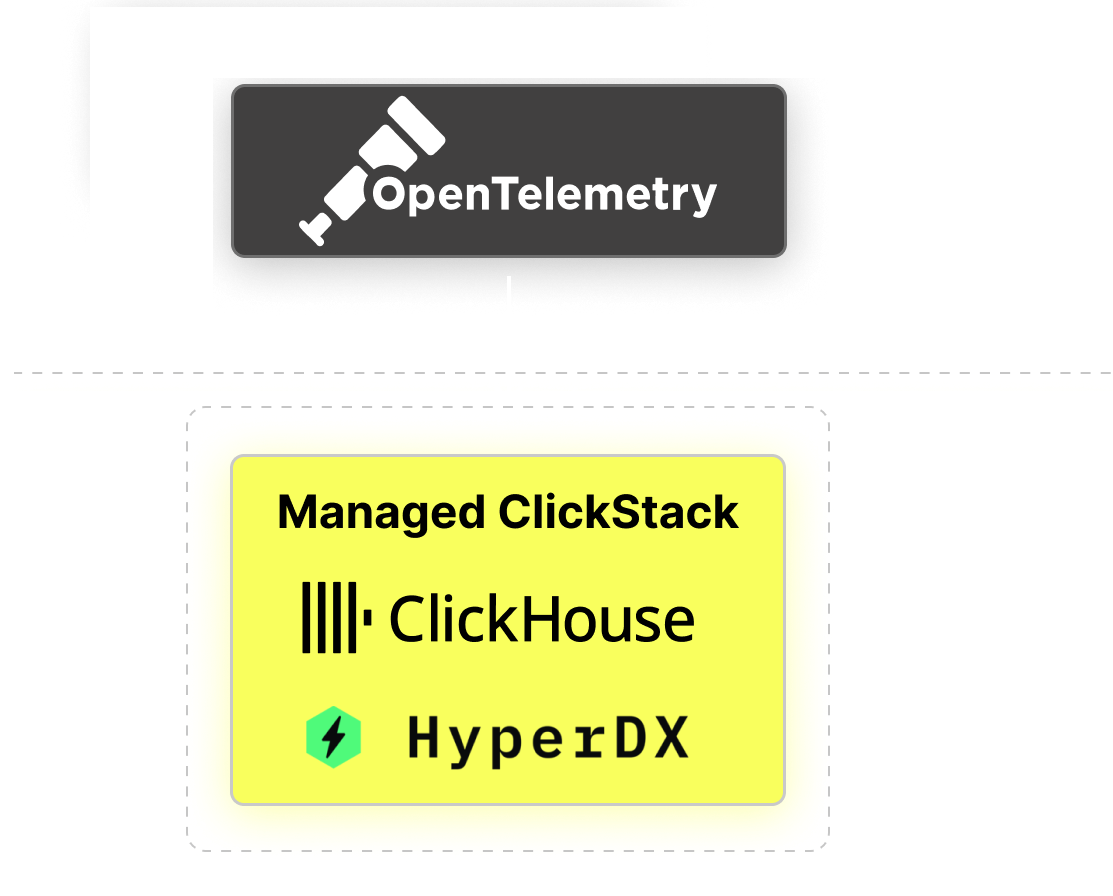
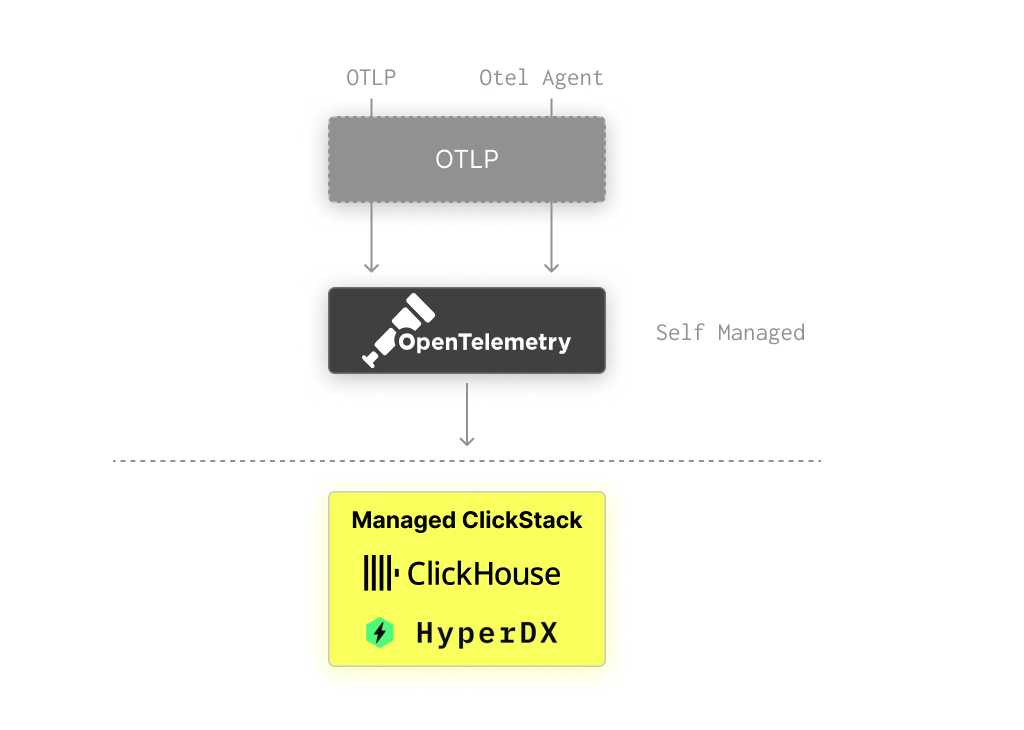
new images + detail in guides

Changed region(s): [[0.1875, 0.3918, 0.7812, 0.9342], [0.1875, 0.0904, 0.7188, 0.3014]]

diff --git a/docs/use-cases/observability/clickstack/deployment/managed.md b/docs/use-cases/observability/clickstack/deployment/managed.md
@@ -21,14 +21,19 @@ import JSONSupport from '@site/docs/use-cases/observability/clickstack/deploymen
 import SetupManagedIngestion from '@site/docs/use-cases/observability/clickstack/deployment/_snippets/_setup_managed_ingestion.md';
 import StartManagedIngestion from '@site/docs/use-cases/observability/clickstack/deployment/_snippets/_start_managed_ingestion.md';
 import NavigateClickStackUI from '@site/docs/use-cases/observability/clickstack/deployment/_snippets/_navigate_managed.md';
+import ProviderSelection from '@site/docs/use-cases/observability/clickstack/deployment/_snippets/_select_provider.md';
+import UseCaseSelector from '@site/docs/use-cases/observability/clickstack/deployment/_snippets/_select_usecase.md';
+import new_service from '@site/static/images/clickstack/getting-started/new_service.png';
+import Tabs from '@theme/Tabs';
+import TabItem from '@theme/TabItem';
 
 <BetaBadge/>
 
 ::::note[Beta feature]
 This feature is in ClickHouse Cloud beta.
-
-If you're new to ClickHouse Cloud, we recommend our [Getting Started](/use-cases/observability/clickstack/getting-started/managed) guide for Managed ClickStack.
 ::::
+
+This **guide is for existing users of ClickHouse Cloud**. If you're new to ClickHouse Cloud, we recommend our [Getting Started](/use-cases/observability/clickstack/getting-started/managed) guide for Managed ClickStack.
 
 In this deployment pattern, both ClickHouse and the ClickStack UI (HyperDX) are hosted in ClickHouse Cloud, minimizing the number of components the user needs to self-host.
 
@@ -56,9 +61,12 @@ This deployment pattern is ideal in the following scenarios:
 
 The following guide assumes you have already created a ClickHouse Cloud service. If you haven't created a service, follow the [Getting Started](/use-cases/observability/clickstack/getting-started/managed) guide for Managed ClickStack. This will leave you with a service in the same state as this guide i.e. ready for observability data with ClickStack enabled.
 
+<Tabs groupId="service-create-select">
+<TabItem value="select" label="Use an existing service" default>
+
 <VerticalStepper headerLevel="h3">
 
-### Select Service {#select-service}
+### Select a service {#select-service}
 
 From the ClickHouse Cloud landing page, select the service for which you wish to enable managed ClickStack.
 
@@ -68,11 +76,11 @@ This guide assumes you have provisioned sufficient resources to handle the volum
 If your ClickHouse service already hosts existing workloads, such as real-time application analytics, we recommend creating a child service using [ClickHouse Cloud's warehouses feature](/cloud/reference/warehouses) to isolate the observability workload. This ensures your existing applications are not disrupted, while keeping the datasets accessible from both services.
 :::
 
-<Image img={select_service} alt="Select Service" size="md"/>
-
-### Setup ingestion {#setup-ingestion}
+<Image img={select_service} alt="Select service" size="md"/>
 
 Select 'ClickStack' from the left navigation menu.
+
+### Setup ingestion {#setup-ingestion}
 
 <SetupManagedIngestion/>
 
@@ -85,6 +93,42 @@ Select 'ClickStack' from the left navigation menu.
 <NavigateClickStackUI/>
 
 </VerticalStepper>
+
+</TabItem>
+<TabItem value="create" label="Create a new service" default>
+
+<VerticalStepper headerLevel="h3">
+
+### Create a new service {#create-a-service}
+
+From the ClickHouse Cloud landing page, select `New service` to create a new service.
+
+<Image img={new_service} size="md" alt='Service Service' border force/>
+
+### Select your usecase {#select-your-use-case}
+
+<UseCaseSelector/>
+
+### Specify your provider, region and data size {#specify-your-data-size}
+
+<ProviderSelection/>
+
+### Setup ingestion {#setup-ingestion}
+
+<SetupManagedIngestion/>
+
+### Start ingestion {#start-ingestion}
+
+<StartManagedIngestion/>
+
+### Navigate to the ClickStack UI {#navigate-to-clickstack-ui-cloud}
+
+<NavigateClickStackUI/>
+
+</VerticalStepper>
+
+</TabItem>
+</Tabs>
 
 ## Additional tasks {#additional-tasks}
 

diff --git a/docs/use-cases/observability/clickstack/getting-started/managed.md b/docs/use-cases/observability/clickstack/getting-started/managed.md
@@ -11,19 +11,15 @@ keywords: ['Managed ClickStack', 'getting started', 'ClickHouse Cloud']
 
 import Image from '@theme/IdealImage';
 import signup_page from '@site/static/images/clickstack/getting-started/signup_page.png';
-import use_case_selector from '@site/static/images/clickstack/getting-started/use_case_selector.png';
-import provider_selection from '@site/static/images/clickstack/getting-started/provider_selection.png';
-import advanced_resources from '@site/static/images/clickstack/getting-started/advanced_resources.png';
-import service_provisioned from '@site/static/images/clickstack/getting-started/service_provisioned.png';
 import select_source from '@site/static/images/clickstack/getting-started/select_source.png';
 import otel_collector_start from '@site/static/images/clickstack/getting-started/otel_collector_start.png';
 import advanced_otel_collector from '@site/static/images/clickstack/getting-started/otel_collector_start.png';
 import clickstack_managed_ui from '@site/static/images/clickstack/getting-started/clickstack_managed_ui.png';
 import BetaBadge from '@theme/badges/BetaBadge';
-import Tabs from '@theme/Tabs';
-import TabItem from '@theme/TabItem';
 import SetupManagedIngestion from '@site/docs/use-cases/observability/clickstack/deployment/_snippets/_setup_managed_ingestion.md';
 import StartManagedIngestion from '@site/docs/use-cases/observability/clickstack/deployment/_snippets/_start_managed_ingestion.md';
+import ProviderSelection from '@site/docs/use-cases/observability/clickstack/deployment/_snippets/_select_provider.md';
+import UseCaseSelector from '@site/docs/use-cases/observability/clickstack/deployment/_snippets/_select_usecase.md';
 import NavigateClickStackUI from '@site/docs/use-cases/observability/clickstack/deployment/_snippets/_navigate_managed.md';
 import service_connect from '@site/static/images/_snippets/service_connect.png';
 
@@ -54,29 +50,11 @@ To create a Managed ClickStack service in [ClickHouse Cloud](https://console.cli
 
 ## Select your usecase {#select-your-use-case}
 
-Select "Observability" when prompted to select your use case.
-
-<Image img={use_case_selector} size="md" alt='Signup cloud' border/>
+<UseCaseSelector/>
 
 ## Specify your provider, region and data size {#specify-your-data-size}
 
-Select your cloud provider, the region in which you wish to deploy, and the volume of data that you have per month via the 'Memory and Scaling' drop-down.
-
-This should be a rough estimate of the amount of data you have, either logs or traces, in an uncompressed form. 
-
-<Image img={use_case_selector} size="md" alt='Resource selector' border/>
-
-This estimate will be used to size the compute supporting your Managed ClickStack service. By default, new organizations are put on the [Scale tier](/cloud/manage/cloud-tiers). [Vertical autoscaling](/manage/scaling#vertical-auto-scaling) will be enabled by default in the Scale tier. You can change your organization tier later on the 'Plans' page.
-
-Advanced users with an understanding of their requirements can alternatively specify the exact resources provisionned, as well as any enterprise features, by selecting 'Custom Configuration' from the 'Memory and Scaling' dropdown.
-
-<Image img={advanced_resources} size="md" alt='Advanced resource selector' border/>
-
-Once you have specified the requirements, your Managed ClickStack service will take several minutes to provision. The completion of provisionning is indicated on the subsequent 'ClickStack' page. Feel free to explore the rest of the [ClickHouse Cloud console](/cloud/overview) whilst waiting for provisioning.
-
-<Image img={service_provisioned} size="md" alt='Service provisioned' border/>
-
-Once provisioning is complete, users can select 'Start Ingestion'.
+<ProviderSelection/>
 
 ## Setup ingestion {#setup-ingestion}
 

diff --git a/docs/use-cases/observability/clickstack/deployment/_snippets/_setup_managed_ingestion.md b/docs/use-cases/observability/clickstack/deployment/_snippets/_setup_managed_ingestion.md
@@ -8,14 +8,14 @@ import TabItem from '@theme/TabItem';
 
 This will prompt the user to select their ingestion source. Managed ClickStack supports a number of ingestion sources, including OpenTelemetry and [Vector](https://vector.dev/), as well as the option to send data directly to ClickHouse in your own schema.
 
-<Image img={select_source} size="md" alt='Select source' border/>
+<Image img={select_source} size="md" alt='Select source' border force/>
 
 :::note OpenTelemetry recommended
 We strongly recommend using OpenTelemetry as the ingestion format. It provides the simplest and most optimized experience, with out-of-the-box schemas that are specifically designed to work efficiently with ClickStack.
 :::
 
 <Tabs groupId="ingestion-sources">
-<TabItem value="open-telemetry" label="OpenTelemetry" default>
+<TabItem value="open-telemetry" label="OpenTelemetry" default force>
 
 To send OpenTelemetry data to Managed ClickStack, we recommend using an OpenTelemetry Collector. The collector acts as a gateway that receives OpenTelemetry data from your applications (and other collectors) and forwards it to ClickHouse Cloud.
 
@@ -27,7 +27,7 @@ The following assumes the recommended path of using the **ClickStack distributio
 
 To get started quickly, copy and run the Docker command shown.
 
-<Image img={otel_collector_start} size="md" alt='OTel collector source' border/>
+<Image img={otel_collector_start} size="md" alt='OTel collector source' border force/>
 
 This command should include your connection credentials `CLICKHOUSE_ENDPOINT` and `CLICKHOUSE_PASSWORD` pre-populated.
 
@@ -200,7 +200,7 @@ service:
 
 ```
 
-<Image img={advanced_otel_collector} size="md" alt='Advanced OTel collector source' border/>
+<Image img={advanced_otel_collector} size="md" alt='Advanced OTel collector source' border force/>
 
 For further details on configuring OpenTelemtry collectors see ["Ingesting with OpenTelemetry."](/use-cases/observability/clickstack/ingesting-data/opentelemetry)
 

diff --git a/docs/use-cases/observability/clickstack/deployment/_snippets/_select_provider.md b/docs/use-cases/observability/clickstack/deployment/_snippets/_select_provider.md
@@ -1,0 +1,22 @@
+import Image from '@theme/IdealImage';
+import provider_selection from '@site/static/images/clickstack/getting-started/provider_selection.png';
+import advanced_resources from '@site/static/images/clickstack/getting-started/advanced_resources.png';
+import service_provisioned from '@site/static/images/clickstack/getting-started/service_provisioned.png';
+
+Select your cloud provider, the region in which you wish to deploy, and the volume of data that you have per month via the 'Memory and Scaling' drop-down.
+
+This should be a rough estimate of the amount of data you have, either logs or traces, in an uncompressed form. 
+
+<Image img={provider_selection} size="md" alt='Resource selector' border force/>
+
+This estimate will be used to size the compute supporting your Managed ClickStack service. By default, new organizations are put on the [Scale tier](/cloud/manage/cloud-tiers). [Vertical autoscaling](/manage/scaling#vertical-auto-scaling) will be enabled by default in the Scale tier. You can change your organization tier later on the 'Plans' page.
+
+Advanced users with an understanding of their requirements can alternatively specify the exact resources provisionned, as well as any enterprise features, by selecting 'Custom Configuration' from the 'Memory and Scaling' dropdown.
+
+<Image img={advanced_resources} size="md" alt='Advanced resource selector' border force/>
+
+Once you have specified the requirements, your Managed ClickStack service will take several minutes to provision. The completion of provisionning is indicated on the subsequent 'ClickStack' page. Feel free to explore the rest of the [ClickHouse Cloud console](/cloud/overview) whilst waiting for provisioning.
+
+<Image img={service_provisioned} size="md" alt='Service provisioned' border />
+
+Once provisioning is complete, users can select 'Start Ingestion'.

diff --git a/docs/use-cases/observability/clickstack/overview.md b/docs/use-cases/observability/clickstack/overview.md
@@ -10,8 +10,8 @@ keywords: ['clickstack', 'observability', 'logs', 'monitoring', 'platform']
 ---
 
 import Image from '@theme/IdealImage';
-import oss_architecture from '@site/static/images/use-cases/observability/clickstack-oss-architecture.png';
-import managed_architecture from '@site/static/images/use-cases/observability/clickstack-managed-architecture.png';
+import oss_simple_architecture from '@site/static/images/use-cases/observability/clickstack-simple-oss-architecture.png';
+import managed_simple_architecture from '@site/static/images/use-cases/observability/clickstack-simple-managed-architecture.png';
 import landing_image from '@site/static/images/use-cases/observability/hyperdx-landing.png';
 import Tabs from '@theme/Tabs';
 import TabItem from '@theme/TabItem';
@@ -91,7 +91,7 @@ The ClickStack architecture varies depending on how it is deployed. There are im
 <Tabs groupId="architectures">
 <TabItem value="managed-clickstack" label="Managed ClickStack" default>
 
-<Image img={managed_architecture} alt="Managed ClickStack architecture" size="md" force/>
+<Image img={managed_simple_architecture} alt="Managed ClickStack architecture" size="md" force/>
 
 Managed ClickStack runs entirely within **ClickHouse Cloud**, providing a fully managed observability backend while preserving the same ClickStack data model and user experience.
 
@@ -126,7 +126,7 @@ For users deploying ClickStack in production, Managed ClickStack is the recommen
 
 <TabItem value="oss-clickstack" label="Open Source ClickStack" default>
 
-<Image img={oss_architecture} alt="OSS Simple architecture" size="md" force/>
+<Image img={oss_simple_architecture} alt="OSS Simple architecture" size="md" force/>
 
 Open Source ClickStack consists of three core components:
 

diff --git a/docs/use-cases/observability/clickstack/architecture.md b/docs/use-cases/observability/clickstack/architecture.md
@@ -9,7 +9,7 @@ keywords: ['ClickStack architecture', 'observability architecture', 'HyperDX', '
 ---
 
 import Image from '@theme/IdealImage';
-import architecture from '@site/static/images/use-cases/observability/clickstack-architecture.png';
+import oss_architecture from '@site/static/images/use-cases/observability/clickstack-oss-architecture.png';
 import managed_architecture from '@site/static/images/use-cases/observability/clickstack-managed-architecture.png';
 import Tabs from '@theme/Tabs';
 import TabItem from '@theme/TabItem';
@@ -23,7 +23,7 @@ Managed ClickStack runs entirely within **ClickHouse Cloud**, providing a fully 
 
 In this model, **ClickHouse and the ClickStack UI (HyperDX)** are hosted, operated, and secured by ClickHouse Cloud. Users are responsible only for running an **OpenTelemetry (OTel) collector**to send telemetry data into the managed service.
 
-<Image img={managed_architecture} alt="Managed Architecture" size="lg" force/>
+<Image img={managed_architecture} alt="Managed Architecture" size="lg"/>
 
 ## ClickHouse Cloud: the engine {#clickhouse-cloud}
 
@@ -80,7 +80,7 @@ The ClickStack Open Source architecture is built around three core components: *
 
 ## Architecture overview {#architecture-overview}
 
-<Image img={architecture} alt="Architecture" size="lg" force/>
+<Image img={oss_architecture} alt="Architecture" size="lg" force/>
 
 ## ClickHouse: the database engine {#clickhouse}
 

diff --git a/docs/use-cases/observability/clickstack/deployment/_snippets/_navigate_managed.md b/docs/use-cases/observability/clickstack/deployment/_snippets/_navigate_managed.md
@@ -3,7 +3,7 @@ import clickstack_managed_ui from '@site/static/images/clickstack/getting-starte
 
 Select 'Launch ClickStack' to access the ClickStack UI (HyperDX). You will automatically authenticated and redirected. Data sources will be pre-created for each of the OTel sources, logs, traces and metrics.
 
-<Image img={clickstack_managed_ui} size="md" alt='ClickStack UI' border/>
+<Image img={clickstack_managed_ui} size="md" alt='ClickStack UI' border force/>
 
 And that’s it — you’re all set. 🎉
 

diff --git a/docs/use-cases/observability/clickstack/deployment/_snippets/_select_usecase.md b/docs/use-cases/observability/clickstack/deployment/_snippets/_select_usecase.md
@@ -1,0 +1,6 @@
+import Image from '@theme/IdealImage';
+import use_case_selector from '@site/static/images/clickstack/getting-started/use_case_selector.png';
+
+Select "Observability" when prompted to select your use case.
+
+<Image img={use_case_selector} size="md" alt='Signup cloud' border force/>
